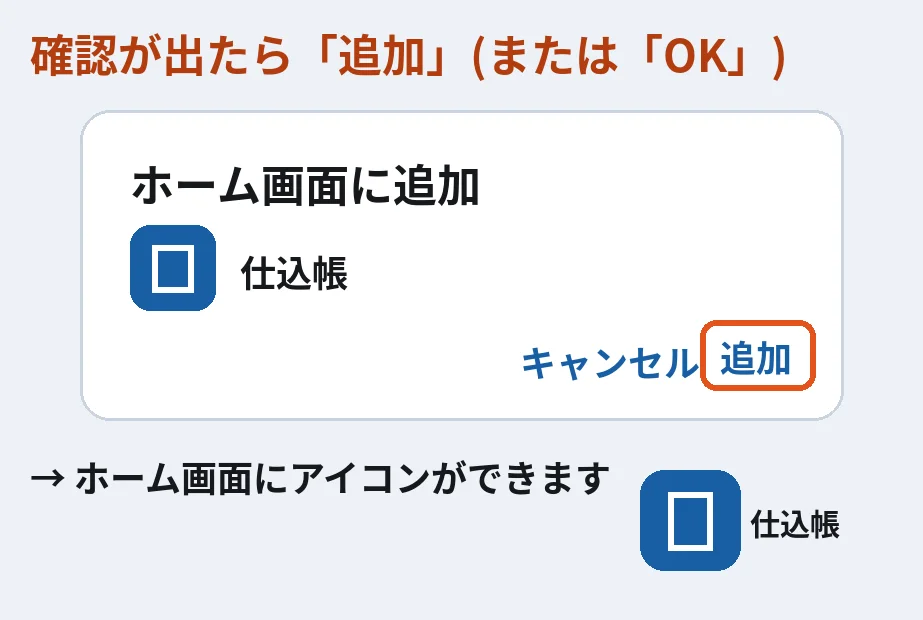
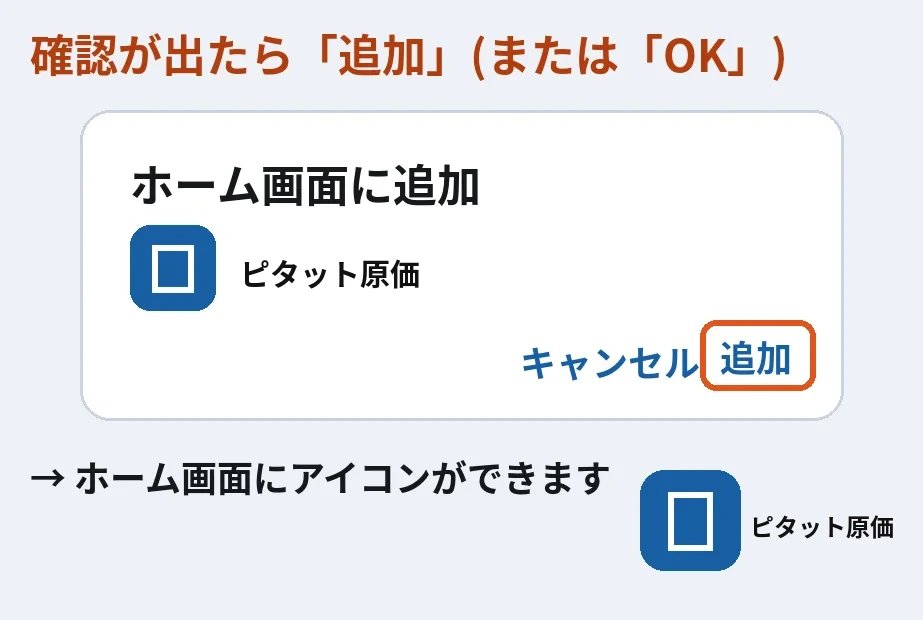
名前を「ピタット原価」に
Claude-Session: https://claude.ai/code/session_01RKx6zNUvUiXYPgLThj1DPE

Changed region(s): [[0.2427, 0.3984, 0.455, 0.4903], [0.8191, 0.8274, 0.9707, 0.8887]]

diff --git a/app/app.js b/app/app.js
@@ -1,4 +1,4 @@
-// 仕込帳 お店の画面(LINEの中でも、パソコンのブラウザでも開ける)
+// ピタット原価 お店の画面(LINEの中でも、パソコンのブラウザでも開ける)
 // データは Google の記録の表から読む。見られるのは「メンバー」シートで許可された人だけ。
 const LIFF_ID = '2012003912-ltVppjVx';
 const GAS_URL = 'https://script.google.com/macros/s/AKfycbxShAkcy1uEzK5ZUGWgW8lzdFBcd8baDNKjHwGKCBx7ocrEUNDHmzrSFdrZDikqL2VO/exec';
@@ -38,7 +38,7 @@ async function load() {
   try {
     const out = await api({ kind: 'app_data' });
     if (!out.ok) {
-      if (out.error === 'removed') { store.set('data', null); D = null; document.querySelectorAll('section').forEach(s => s.hidden = true); return state('<b>このお店の仕込帳からは外されています。</b><br>心当たりがなければ、店主に聞いてください。' + (CF && !IN_LINE ? '<form method="post" action="/auth/logout" style="margin-top:10px"><button class="btn ghost">ログアウト</button></form>' : '')); }
+      if (out.error === 'removed') { store.set('data', null); D = null; document.querySelectorAll('section').forEach(s => s.hidden = true); return state('<b>このお店のピタット原価からは外されています。</b><br>心当たりがなければ、店主に聞いてください。' + (CF && !IN_LINE ? '<form method="post" action="/auth/logout" style="margin-top:10px"><button class="btn ghost">ログアウト</button></form>' : '')); }
       if (out.error === 'wait' || out.error === 'login') { store.set('data', null); if (D) { D = null; document.querySelectorAll('section').forEach(s => s.hidden = true); } }
       if (out.error === 'wait') return state('<b>店主の許可待ちです。</b><br>店主のLINEに「見たい」とお知らせを送りました。<br>店主が「許可」を押したら、もう一度開いてください。<br><button class="btn ghost" onclick="load()">もう一度読む</button>');
       if (out.error === 'login' && CF && !IN_LINE) { location.href = '/login?next=' + encodeURIComponent(location.pathname); return; }
@@ -125,7 +125,7 @@ function renderA2hs() {
   else if (ios) how = `<ol class="k" style="margin:4px 0 0;padding-left:1.3em;line-height:1.9"><li>画面の下(または上)の <b>共有ボタン</b>(四角に上向きの矢印)を押す</li><li><b>「ホーム画面に追加」</b>を押す</li><li>右上の<b>「追加」</b>を押す</li></ol>`;
   else how = `<p class="k" style="margin:4px 0 0">ブラウザのメニューから「ホーム画面に追加」を選んでください。</p>`;
   box.hidden = false;
-  box.innerHTML = `<div style="display:flex;gap:12px;align-items:flex-start"><img src="icon-192.png" alt="" width="44" height="44" style="border-radius:12px;flex:0 0 44px"><div style="flex:1;min-width:0"><b>ホーム画面に仕込帳を置く</b><p class="k" style="margin:2px 0 0">次からはアイコンを押すだけで、LINEを通らずこの画面が開きます。</p>${how}<p style="margin:8px 0 0"><a href="#" id="a2hs-no" class="k" style="color:var(--accent)">今はいい</a></p></div></div>`;
+  box.innerHTML = `<div style="display:flex;gap:12px;align-items:flex-start"><img src="icon-192.png" alt="" width="44" height="44" style="border-radius:12px;flex:0 0 44px"><div style="flex:1;min-width:0"><b>ホーム画面にピタット原価を置く</b><p class="k" style="margin:2px 0 0">次からはアイコンを押すだけで、LINEを通らずこの画面が開きます。</p>${how}<p style="margin:8px 0 0"><a href="#" id="a2hs-no" class="k" style="color:var(--accent)">今はいい</a></p></div></div>`;
   const go = $('a2hs-go'); if (go) go.onclick = async () => {
     if (a2hsEvt) { const ev = a2hsEvt; ev.prompt(); const r = await ev.userChoice.catch(() => null); a2hsEvt = null; if (r && r.outcome === 'accepted') { store.set('a2hsHide', 1); box.hidden = true; toast('ホーム画面に置きました', 'ok'); } return; }
     a2hsHelp();
@@ -138,25 +138,25 @@ function a2hsHelp() {
   const ov = document.createElement('div');
   ov.className = 'a2ov';
   const iosSteps = [
-    { t: 'まず、もう置いてあるか見てみましょう', b: '携帯のホーム画面(アプリが並んでいる画面)に戻って、「仕込帳」のアイコンがないか見てください。横にめくった先にあることもあります。' },
-    { t: '無かったら: 共有のマークを押します', b: '画面の<b>いちばん下のまん中</b>にある、<b>四角から矢印が上に出ているマーク</b>を押してください。<br><span class="k">見当たらないときは、右下の「…」を押すと「共有」が出てきます。それを押してください。</span>', img: 'a2hs_ios_1.webp' },
-    { t: '「ホーム画面に追加」を押します', b: '出てきた一覧を指で少し上に動かすと<b>「ホーム画面に追加」</b>があります。それを押してください。', img: 'a2hs_ios_2.webp' },
-    { t: '最後に右上の「追加」を押します', b: '右上の<b>「追加」</b>を押します。<br>これで携帯のホーム画面に「仕込帳」のアイコンができます。', img: 'a2hs_ios_3.webp' }];
+    { t: 'まず、もう置いてあるか見てみましょう', b: '携帯のホーム画面(アプリが並んでいる画面)に戻って、「ピタット原価」のアイコンがないか見てください。横にめくった先にあることもあります。' },
+    { t: '無かったら: 共有のマークを押します', b: '画面の<b>いちばん下のまん中</b>にある、<b>四角から矢印が上に出ているマーク</b>を押してください。<br><span class="k">見当たらないときは、右下の「…」を押すと「共有」が出てきます。それを押してください。</span>', img: 'a2hs_ios_1.webp?v=2' },
+    { t: '「ホーム画面に追加」を押します', b: '出てきた一覧を指で少し上に動かすと<b>「ホーム画面に追加」</b>があります。それを押してください。', img: 'a2hs_ios_2.webp?v=2' },
+    { t: '最後に右上の「追加」を押します', b: '右上の<b>「追加」</b>を押します。<br>これで携帯のホーム画面に「ピタット原価」のアイコンができます。', img: 'a2hs_ios_3.webp?v=2' }];
   const pcSteps = [
-    { t: 'パソコンに仕込帳を置く', b: '<b>Chrome</b>か<b>Edge</b>で開いているときにできます。アドレス欄(上の、住所が書いてある欄)の右はしにある<b>「インストール」マーク</b>(画面に下向きの矢印)を押して、出てきた確認で<b>「インストール」</b>を押してください。', img: 'a2hs_pc_1.webp' },
-    { t: 'マークが無いとき', b: '右上の <b>︙</b> を押して、<b>「キャスト、保存、共有」</b>→<b>「ページをアプリとしてインストール」</b>を押します。<br><span class="k">Edgeの場合は、右上の「…」→「アプリ」→「このサイトをアプリとしてインストール」です。Macの Safari なら、上のメニューの「ファイル」→「Dockに追加」です。</span>', img: 'a2hs_pc_2.webp' },
-    { t: 'できあがり', b: 'デスクトップやタスクバーに「仕込帳」のアイコンができます。押すと、仕込帳だけの画面で開きます。', img: 'a2hs_pc_3.webp' }];
+    { t: 'パソコンにピタット原価を置く', b: '<b>Chrome</b>か<b>Edge</b>で開いているときにできます。アドレス欄(上の、住所が書いてある欄)の右はしにある<b>「インストール」マーク</b>(画面に下向きの矢印)を押して、出てきた確認で<b>「インストール」</b>を押してください。', img: 'a2hs_pc_1.webp?v=2' },
+    { t: 'マークが無いとき', b: '右上の <b>︙</b> を押して、<b>「キャスト、保存、共有」</b>→<b>「ページをアプリとしてインストール」</b>を押します。<br><span class="k">Edgeの場合は、右上の「…」→「アプリ」→「このサイトをアプリとしてインストール」です。Macの Safari なら、上のメニューの「ファイル」→「Dockに追加」です。</span>', img: 'a2hs_pc_2.webp?v=2' },
+    { t: 'できあがり', b: 'デスクトップやタスクバーに「ピタット原価」のアイコンができます。押すと、ピタット原価だけの画面で開きます。', img: 'a2hs_pc_3.webp?v=2' }];
   const isPc = !matchMedia('(pointer:coarse)').matches;
   const steps = isPc ? pcSteps : /iPhone|iPad|iPod/.test(navigator.userAgent) ? iosSteps : [
-    { t: 'まず、もう置いてあるか見てみましょう', b: '前に一度「インストール」を押していれば、もう置いてあります。いったん携帯のホーム画面(アプリが並んでいる画面)に戻って、「仕込帳」のアイコンがないか見てください。横にめくった先にあることもあります。', pic: '' },
-    { t: '無かったら: 点が3つのマークを押します', b: '画面の<b>いちばん下の右はし</b>(携帯によっては<b>いちばん上の右はし</b>)にある <b style="font-size:20px">︙</b> を押してください。', img: 'a2hs_1.webp' },
-    { t: '「ショートカット作成」を押します', b: '出てきた一覧から<b>「ショートカット作成」</b>を押します。<br><span class="k">携帯によっては<b>「ホーム画面に追加」「アプリをインストール」「ページを追加」</b>と書いてあります。どれか1つがあれば、それを押してください。</span>', img: 'a2hs_2.webp' },
-    { t: '最後に「追加」を押します', b: '確認が出たら<b>「追加」</b>(または「OK」「インストール」)を押します。<br>これで携帯のホーム画面に「仕込帳」のアイコンができます。', img: 'a2hs_3.webp' }];
+    { t: 'まず、もう置いてあるか見てみましょう', b: '前に一度「インストール」を押していれば、もう置いてあります。いったん携帯のホーム画面(アプリが並んでいる画面)に戻って、「ピタット原価」のアイコンがないか見てください。横にめくった先にあることもあります。', pic: '' },
+    { t: '無かったら: 点が3つのマークを押します', b: '画面の<b>いちばん下の右はし</b>(携帯によっては<b>いちばん上の右はし</b>)にある <b style="font-size:20px">︙</b> を押してください。', img: 'a2hs_1.webp?v=2' },
+    { t: '「ショートカット作成」を押します', b: '出てきた一覧から<b>「ショートカット作成」</b>を押します。<br><span class="k">携帯によっては<b>「ホーム画面に追加」「アプリをインストール」「ページを追加」</b>と書いてあります。どれか1つがあれば、それを押してください。</span>', img: 'a2hs_2.webp?v=2' },
+    { t: '最後に「追加」を押します', b: '確認が出たら<b>「追加」</b>(または「OK」「インストール」)を押します。<br>これで携帯のホーム画面に「ピタット原価」のアイコンができます。', img: 'a2hs_3.webp?v=2' }];
   let i = 0;
   const PIC = {
     dots: `<svg viewBox="0 0 240 150" width="240" height="150" aria-hidden="true"><rect x="20" y="6" width="200" height="138" rx="16" fill="#fff" stroke="#c9d3df" stroke-width="3"/><rect x="34" y="18" width="172" height="20" rx="10" fill="#eef2f7"/><circle cx="198" cy="28" r="3" fill="#555"/><circle cx="198" cy="20" r="3" fill="#555"/><circle cx="198" cy="36" r="3" fill="#555"/><rect x="34" y="112" width="172" height="20" rx="6" fill="#eef2f7"/><circle cx="196" cy="114" r="3" fill="#555"/><circle cx="196" cy="122" r="3" fill="#555"/><circle cx="196" cy="130" r="3" fill="#555"/><circle cx="198" cy="28" r="14" fill="none" stroke="#e2531c" stroke-width="4"/><circle cx="196" cy="122" r="14" fill="none" stroke="#e2531c" stroke-width="4"/><text x="120" y="80" font-size="14" text-anchor="middle" fill="#8a94a3">上か下の右はし</text></svg>`,
     menu: `<svg viewBox="0 0 240 150" width="240" height="150" aria-hidden="true"><rect x="60" y="6" width="160" height="138" rx="12" fill="#fff" stroke="#c9d3df" stroke-width="3"/><rect x="74" y="20" width="110" height="10" rx="5" fill="#e3e8ef"/><rect x="74" y="42" width="90" height="10" rx="5" fill="#e3e8ef"/><rect x="68" y="60" width="144" height="28" rx="8" fill="#fff4e8" stroke="#e2531c" stroke-width="3"/><text x="140" y="79" font-size="14" text-anchor="middle" fill="#b23d0f" font-weight="700">ホーム画面に追加</text><rect x="74" y="100" width="100" height="10" rx="5" fill="#e3e8ef"/><rect x="74" y="120" width="80" height="10" rx="5" fill="#e3e8ef"/></svg>`,
-    done: `<svg viewBox="0 0 240 150" width="240" height="150" aria-hidden="true"><rect x="70" y="6" width="100" height="138" rx="16" fill="#fff" stroke="#c9d3df" stroke-width="3"/><rect x="86" y="24" width="20" height="20" rx="5" fill="#e3e8ef"/><rect x="110" y="24" width="20" height="20" rx="5" fill="#e3e8ef"/><rect x="134" y="24" width="20" height="20" rx="5" fill="#e3e8ef"/><rect x="86" y="54" width="20" height="20" rx="5" fill="#185fa5"/><rect x="91" y="59" width="10" height="11" fill="none" stroke="#fff" stroke-width="2"/><text x="96" y="88" font-size="9" text-anchor="middle" fill="#333">仕込帳</text><circle cx="96" cy="64" r="17" fill="none" stroke="#e2531c" stroke-width="3"/></svg>`
+    done: `<svg viewBox="0 0 240 150" width="240" height="150" aria-hidden="true"><rect x="70" y="6" width="100" height="138" rx="16" fill="#fff" stroke="#c9d3df" stroke-width="3"/><rect x="86" y="24" width="20" height="20" rx="5" fill="#e3e8ef"/><rect x="110" y="24" width="20" height="20" rx="5" fill="#e3e8ef"/><rect x="134" y="24" width="20" height="20" rx="5" fill="#e3e8ef"/><rect x="86" y="54" width="20" height="20" rx="5" fill="#185fa5"/><rect x="91" y="59" width="10" height="11" fill="none" stroke="#fff" stroke-width="2"/><text x="96" y="88" font-size="7" text-anchor="middle" fill="#333">ピタット原価</text><circle cx="96" cy="64" r="17" fill="none" stroke="#e2531c" stroke-width="3"/></svg>`
   };
   const draw = () => {
     const s0 = steps[i];
@@ -242,18 +242,18 @@ function renderHomeEvents() {
   box.style.padding = evs.length ? '0' : '';
 }
 $('ev-more').onclick = () => show('cal');
-// レジに入れる値段(仕込帳で売値を変えた → レジを直して「済」)。値段表の印刷も
+// レジに入れる値段(ピタット原価で売値を変えた → レジを直して「済」)。値段表の印刷も
 function renderReg() {
   const box = $('reg-box'); if (!box) return;
   const all = noMoney() ? [] : (D.priceChanges || []), pend = all.filter(x => !x.done), done = all.filter(x => x.done).slice(-5).reverse();
   box.parentNode.hidden = !all.length;
   if (!all.length) return;
   const row = x => `<div class="regrow${x.done ? ' done' : ''}"><div class="rb"><b>${esc(x.name)}</b>${x.reg && x.reg !== x.name ? ` <span class="k">レジでは「${esc(x.reg)}」</span>` : ''}<span class="k">${x.old ? `${x.old}円 → ` : '新しく '}<b style="color:var(--ink)">${x.now}円</b> · ${x.at ? new Date(x.at).toLocaleDateString('ja-JP', { month: 'numeric', day: 'numeric' }) : ''}${x.done ? ` · レジ済 ${md(x.done)}${x.by ? ' ' + esc(x.by) : ''}` : ''}</span></div>${x.done ? '' : `<button class="btn sm" type="button" data-regdone="${x.row}">レジに入れた</button>`}</div>`;
-  box.innerHTML = `<p class="k" style="margin:0 0 6px">${pend.length ? `仕込帳で売値を変えた${pend.length}品。レジの値段を直したら「レジに入れた」を押してください。押すまでここに残ります。` : 'レジに入れていない変更はありません。'}</p>
+  box.innerHTML = `<p class="k" style="margin:0 0 6px">${pend.length ? `ピタット原価で売値を変えた${pend.length}品。レジの値段を直したら「レジに入れた」を押してください。押すまでここに残ります。` : 'レジに入れていない変更はありません。'}</p>
     ${pend.map(row).join('')}${done.length ? `<details style="margin-top:8px"><summary class="k">最近レジに入れたもの(${done.length})</summary>${done.map(row).join('')}</details>` : ''}
     ${pend.length ? `<div class="ask"><button class="btn ghost sm" type="button" id="reg-print">レジ用の値段表を出す</button><span class="k">印刷するか、スマホで見ながらレジに入れます</span></div>` : ''}`;
   box.querySelectorAll('[data-regdone]').forEach(b => b.onclick = () => setValueX({ field: 'regdone', value: +b.dataset.regdone }));
-  const pr = $('reg-print'); if (pr) pr.onclick = () => openPrint(`<h2>レジに入れる値段</h2><p class="k">${new Date().toLocaleDateString('ja-JP')} 時点。仕込帳で売値を変えた商品。</p><table class="pt"><tr><th>レジでの名前</th><th>商品</th><th>前の売値</th><th>新しい売値</th><th>変えた日</th><th>レジに入れた✓</th></tr>${pend.map(x => `<tr><td><b>${esc(x.reg || x.name)}</b></td><td>${esc(x.name)}</td><td>${x.old ? x.old + '円' : '—'}</td><td><b style="font-size:18px">${x.now}円</b></td><td>${x.at ? new Date(x.at).toLocaleDateString('ja-JP', { month: 'numeric', day: 'numeric' }) : ''}</td><td style="width:60px"></td></tr>`).join('')}</table><p class="k">精算レシートを撮ったとき、レジの値段と仕込帳の売値がちがえば、お知らせします。</p>`);
+  const pr = $('reg-print'); if (pr) pr.onclick = () => openPrint(`<h2>レジに入れる値段</h2><p class="k">${new Date().toLocaleDateString('ja-JP')} 時点。ピタット原価で売値を変えた商品。</p><table class="pt"><tr><th>レジでの名前</th><th>商品</th><th>前の売値</th><th>新しい売値</th><th>変えた日</th><th>レジに入れた✓</th></tr>${pend.map(x => `<tr><td><b>${esc(x.reg || x.name)}</b></td><td>${esc(x.name)}</td><td>${x.old ? x.old + '円' : '—'}</td><td><b style="font-size:18px">${x.now}円</b></td><td>${x.at ? new Date(x.at).toLocaleDateString('ja-JP', { month: 'numeric', day: 'numeric' }) : ''}</td><td style="width:60px"></td></tr>`).join('')}</table><p class="k">精算レシートを撮ったとき、レジの値段とピタット原価の売値がちがえば、お知らせします。</p>`);
 }
 // 日本の祝日(計算で出す。春分・秋分は近い年の表)
 const EQX = { 2025: [20, 23], 2026: [20, 23], 2027: [21, 23], 2028: [20, 22], 2029: [20, 23], 2030: [20, 23] };
@@ -307,11 +307,11 @@ $('ev-add-top').onclick = () => evForm();
 function gcalBox() {
   const c = D.cal || {}; if (!D.me || !D.me.owner) return c.gcal ? '<p class="k" style="margin:10px 0 0">Googleカレンダーの予定も、この表に出ています(店主の設定)。</p>' : '';
   return `<h1 class="sub">Googleカレンダーとつなぐ <span class="k" style="font-weight:400;font-size:13px">(お店が選べます。つながなくても使えます)</span></h1>
-  <div class="card"><p style="margin:0 0 4px"><b>① 仕込帳の予定を、スマホのGoogleカレンダーにも出す</b></p><p class="k" style="margin:0 0 8px">仕込帳に入れた納品・催事・休みが、自動でGoogleカレンダーに出ます(数時間遅れることがあります)。</p>
+  <div class="card"><p style="margin:0 0 4px"><b>① ピタット原価の予定を、スマホのGoogleカレンダーにも出す</b></p><p class="k" style="margin:0 0 8px">ピタット原価に入れた納品・催事・休みが、自動でGoogleカレンダーに出ます(数時間遅れることがあります)。</p>
     <div class="ask" style="margin-top:0"><input id="cal-feed" readonly value="${esc(c.feed || '')}" style="flex:1;min-width:0;font-size:13px"><button class="btn ghost sm" type="button" id="cal-copy">コピー</button></div>
     <details style="margin-top:6px"><summary class="k">Googleカレンダーでの入れ方</summary><ol class="k" style="margin:6px 0 0;padding-left:1.4em;line-height:1.8"><li>パソコンで Googleカレンダー を開く</li><li>左の「他のカレンダー」の「＋」→「URLで追加」</li><li>上の住所を貼って「カレンダーを追加」</li><li>スマホのGoogleカレンダーの設定で、そのカレンダーの表示をオンにする</li></ol><p class="k" style="margin:6px 0 0">この住所は合言葉つきです。お店の人以外には教えないでください。</p></details>
     <hr style="border:0;border-top:1px solid var(--line-2);margin:14px 0">
-    <p style="margin:0 0 4px"><b>② Googleカレンダーの予定を、仕込帳にも出す</b></p><p class="k" style="margin:0 0 8px">Googleカレンダーの設定 › そのカレンダー › 「iCal形式の秘密のアドレス」をコピーして、ここに貼ります。Googleに入れた予定が仕込帳の予定と「今日やること」に出ます(見るだけ。消す・直すはGoogle側で)。</p>
+    <p style="margin:0 0 4px"><b>② Googleカレンダーの予定を、ピタット原価にも出す</b></p><p class="k" style="margin:0 0 8px">Googleカレンダーの設定 › そのカレンダー › 「iCal形式の秘密のアドレス」をコピーして、ここに貼ります。Googleに入れた予定がピタット原価の予定と「今日やること」に出ます(見るだけ。消す・直すはGoogle側で)。</p>
     <div class="ask" style="margin-top:0"><input id="gcal-url" placeholder="https://calendar.google.com/calendar/ical/…/basic.ics" value="${esc(c.gcal || '')}" style="flex:1;min-width:0;font-size:13px"><button class="btn sm" type="button" id="gcal-save">${c.gcal ? '貼り直す' : 'つなぐ'}</button>${c.gcal ? '<button class="btn ghost sm" type="button" id="gcal-off">外す</button>' : ''}</div>
     ${c.gcal ? '<p class="k" style="margin:6px 0 0">つながっています。Googleの予定は1時間ごとに読み直します。</p>' : ''}</div>`;
 }
@@ -1096,7 +1096,7 @@ function renderSales() {
       ${rate != null ? `<div class="row" style="margin-top:8px"><span>作った分の材料費</span><b>${yen(o.madeCost)}</b></div><p class="k" style="margin:2px 0 0">原価率の目安 ${rate}%(製造メモ × 1${U}の原価 ÷ 売上)</p>` : ''}</div>
     ${items.length ? `<div class="card"><p style="margin:0 0 6px"><b>商品ごとのもうけ</b> <span class="k">売上 − 材料費</span></p>${barsH(items.slice(0, 8).map(n => ({ l: n, v: o.items[n].amount - o.items[n].cost })), 'var(--c-sales)')}<table><tr><td class="k">商品</td><td class="n k">数</td><td class="n k">売上</td><td class="n k">もうけ</td></tr>${items.map(n => { const x = o.items[n], g = x.amount - x.cost; return `<tr><td>${esc(n)}${x.unit == null ? ' <span class="pill warn">重さ待ち</span>' : ''}</td><td class="n">${x.qty}</td><td class="n">${yen(x.amount)}</td><td class="n"><b>${yen(g)}</b><br><span class="k">${x.amount ? Math.round(g / x.amount * 100) : 0}%</span></td></tr>`; }).join('')}</table>
       <p class="k" style="margin:6px 0 0">人件費・光熱費などは入っていません。材料費だけを引いた額です</p></div>` : ''}
-    ${unk.length ? `<div class="card"><p style="margin:0 0 6px"><b>レジの名前と商品をつなぐ</b></p><p class="k" style="margin:0 0 6px">商品ごとに打っている名前は、仕込帳の商品を選ぶともうけが出ます。部門(和菓子など)はそのままで大丈夫です</p>
+    ${unk.length ? `<div class="card"><p style="margin:0 0 6px"><b>レジの名前と商品をつなぐ</b></p><p class="k" style="margin:0 0 6px">商品ごとに打っている名前は、ピタット原価の商品を選ぶともうけが出ます。部門(和菓子など)はそのままで大丈夫です</p>
       ${unk.map((u, i) => `<div class="ask"><span style="min-width:7em">${esc(u)} <span class="k">${yen(o.unknown[u])}</span></span><select id="ra-${i}" style="font:inherit;font-size:14px;padding:5px;border:1px solid var(--line);border-radius:10px;background:var(--bg);color:var(--ink)"><option value="">選ぶ</option>${D.products.map(p => `<option>${esc(p.name)}</option>`).join('')}</select><button class="btn ghost" type="button" data-ra="${i}" data-reg="${esc(u)}">つなぐ</button></div>`).join('')}</div>` : ''}`;
   $('sales-box').querySelectorAll('[data-ra]').forEach(b => b.onclick = () => { const p = $('ra-' + b.dataset.ra).value; if (!p) return; setValueX({ field: 'regalias', reg: b.dataset.reg, product: p }); });
 }

diff --git a/app/index.html b/app/index.html
@@ -3,16 +3,16 @@
 <head>
 <meta charset="utf-8">
 <meta name="viewport" content="width=device-width,initial-scale=1,viewport-fit=cover">
-<title>仕込帳</title>
+<title>ピタット原価</title>
 <meta name="theme-color" content="#185fa5">
 <link rel="manifest" href="manifest.webmanifest">
 <link rel="icon" href="icon-192.png">
 <link rel="apple-touch-icon" href="apple-touch-icon.png">
-<meta name="apple-mobile-web-app-capable" content="yes"><meta name="apple-mobile-web-app-title" content="仕込帳">
+<meta name="apple-mobile-web-app-capable" content="yes"><meta name="apple-mobile-web-app-title" content="ピタット原価">
 <link rel="preconnect" href="https://fonts.googleapis.com"><link rel="preconnect" href="https://fonts.gstatic.com" crossorigin>
 <link href="https://fonts.googleapis.com/css2?family=Zen+Maru+Gothic:wght@700&display=swap" rel="stylesheet">
 <style>
-/* 仕込帳 お店の画面 v16
+/* ピタット原価 お店の画面 v16
    参考: Canva(大きな「何をしますか?」と色つきの丸いボタン)と STORES(白くすっきりした管理画面と数字の札)。
    青1色を軸に、機能ごとに色を1つ持つ。角は大きめの丸。影はごく薄く。キャラは右下に座っていて、押すと会話が開く。 */
 :root{
@@ -643,7 +643,7 @@ section.inR{animation:inR .12s ease-out}section.inL{animation:inL .12s ease-out}
     <div class="card" id="bank-box"></div>
     <h1 class="sub">問い合わせ</h1>
     <div class="card contact">
-      <p class="k" style="margin:0 0 8px">使い方が分からない、うまく動かない、こうしてほしい。仕込帳の担当に届きます。お返事はLINEかメールで。</p>
+      <p class="k" style="margin:0 0 8px">使い方が分からない、うまく動かない、こうしてほしい。ピタット原価の担当に届きます。お返事はLINEかメールで。</p>
       <div class="seg" id="ct-cat" style="flex-wrap:wrap;justify-content:flex-start"><button type="button" data-v="使い方" aria-pressed="true">使い方</button><button type="button" data-v="うまく動かない" aria-pressed="false">うまく動かない</button><button type="button" data-v="こうしてほしい" aria-pressed="false">こうしてほしい</button><button type="button" data-v="その他" aria-pressed="false">その他</button></div>
       <textarea id="ct-text" rows="4" maxlength="2000" placeholder="例: 請求書の写真がうまく読めません" aria-label="問い合わせの内容"></textarea>
       <div class="ask"><button class="btn" type="button" id="ct-go">送る</button><span class="k" id="ct-via">LINEで「問い合わせ 〜」と送ってもOK</span></div>
@@ -679,6 +679,6 @@ section.inR{animation:inR .12s ease-out}section.inL{animation:inL .12s ease-out}
 </div></nav>
 
 <script src="https://static.line-scdn.net/liff/edge/2/sdk.js"></script>
-<script src="app.js?v=67"></script>
+<script src="app.js?v=68"></script>
 </body>
 </html>

diff --git a/index.html b/index.html
@@ -3,7 +3,7 @@
 <head>
 <meta charset="utf-8">
 <meta name="viewport" content="width=device-width,initial-scale=1,viewport-fit=cover">
-<title>仕込帳 撮影</title>
+<title>ピタット原価 撮影</title>
 <style>
   :root { --blue:#2f7bf6; --green:#20b26b; --ink:#1d1d1f; --paper:#fffaf0; }
   * { box-sizing:border-box; margin:0; padding:0; }
